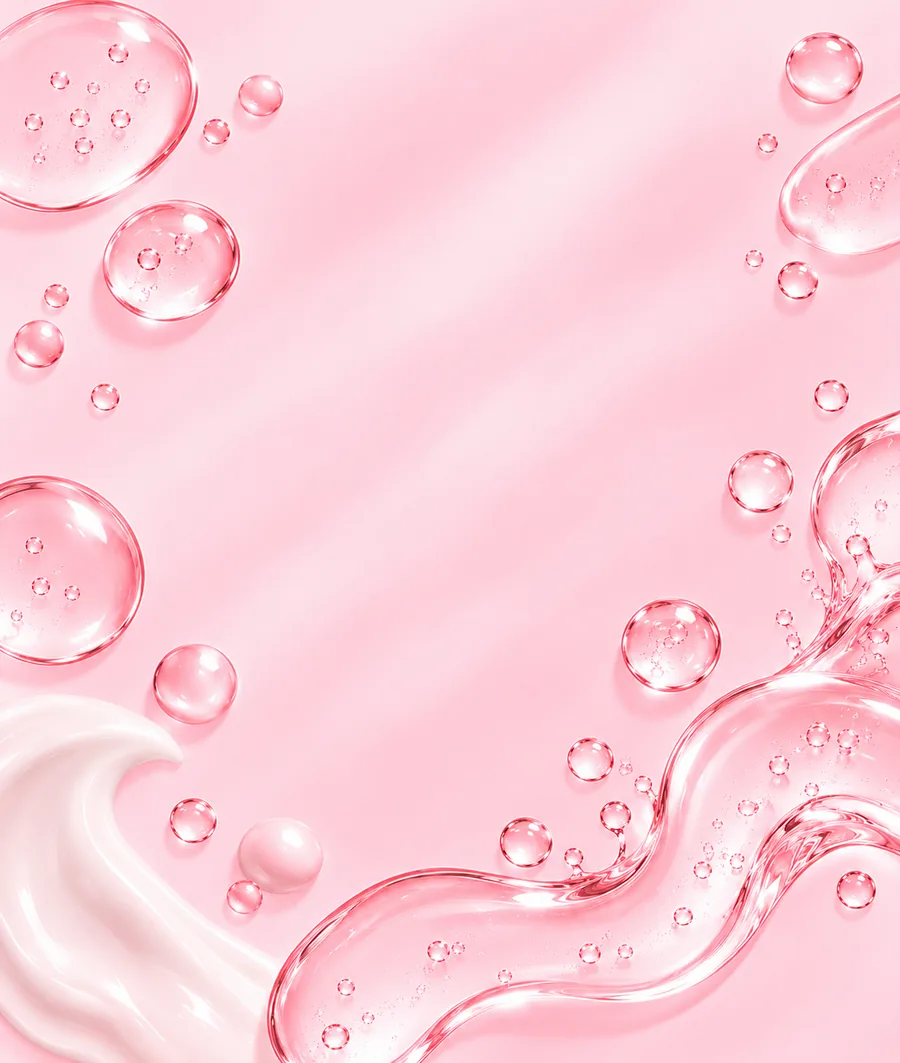
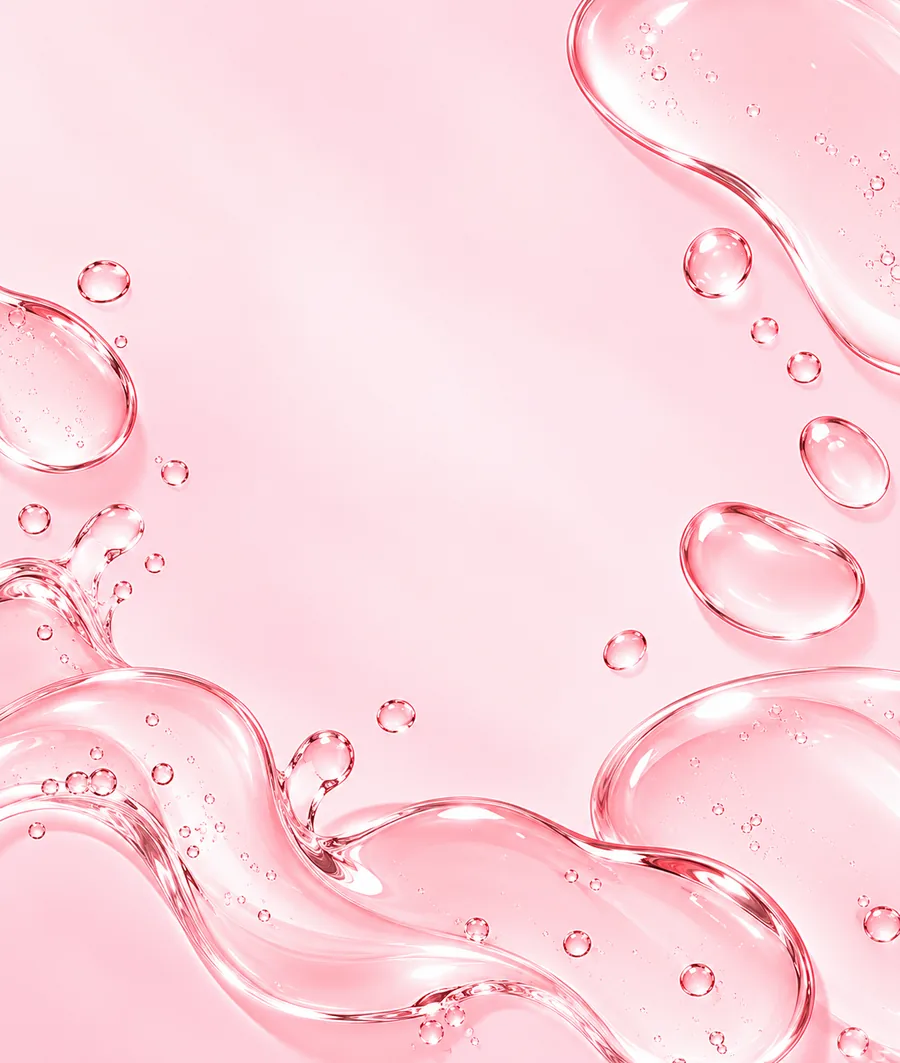
Pages routines : CTA Routine 360 (haut, milieu, bas) + fond peau grasse fourni
Claude-Session: https://claude.ai/code/session_01RQ4GMeZytdPi95et2aZoPf

diff --git a/frontend/src/pages/SkinRoutinePage.jsx b/frontend/src/pages/SkinRoutinePage.jsx
@@ -1,9 +1,10 @@
 import { useEffect, useMemo, useState } from "react";
 import { Link, Navigate, useParams } from "react-router-dom";
-import { ChevronRight, ArrowRight } from "lucide-react";
+import { ChevronRight } from "lucide-react";
 import { api } from "../lib/api";
 import Seo from "../components/Seo";
 import SkinIcon from "../components/SkinIcon";
+import RoutineCta from "../components/RoutineCta";
 import ProductCard from "../components/ProductCard";
 import ArticleCard from "../components/ArticleCard";
 import { SKIN_ROUTINES } from "../data/skinRoutines";
@@ -130,13 +131,7 @@ export default function SkinRoutinePage() {
               {routine.intro.map((p, i) => (
                 <p key={i} className="mt-6 text-neutral-600 leading-relaxed max-w-xl">{p}</p>
               ))}
-              <Link
-                to="/routine-360"
-                className="inline-flex items-center gap-2 mt-8 bg-[#FEC4D2] hover:bg-[#fdb2c3] text-neutral-900 text-sm font-medium px-6 py-3 rounded-full transition"
-                data-testid="skin-cta-routine"
-              >
-                Obtenir ma routine personnalisée <ArrowRight size={16} />
-              </Link>
+              <RoutineCta variant="hero" testId="skin-cta-top" />
             </div>
             <div className="relative flex justify-center lg:justify-end">
               <div className="relative">
@@ -220,6 +215,8 @@ export default function SkinRoutinePage() {
         </div>
       </section>
 
+      <RoutineCta testId="skin-cta-mid" />
+
       {/* ===== ERREURS ===== */}
       <section className="px-6 py-14 md:py-20" data-testid="skin-mistakes">
         <div className="max-w-5xl mx-auto">
@@ -244,6 +241,8 @@ export default function SkinRoutinePage() {
       </section>
 
       <RelatedArticles routine={routine} />
+
+      <RoutineCta testId="skin-cta-bottom" />
 
       {/* ===== AUTRES ROUTINES ===== */}
       <section className="px-6 pb-20" data-testid="skin-other-routines">

diff --git a/frontend/src/components/RoutineCta.jsx b/frontend/src/components/RoutineCta.jsx
@@ -1,0 +1,41 @@
+import { Link } from "react-router-dom";
+import { Sparkles } from "lucide-react";
+
+/**
+ * Appel à l'action vers le quiz « Routine 360 ».
+ * variant="hero" : titre + bouton alignés à gauche (haut de page).
+ * variant="band" : bandeau centré (milieu / bas de page).
+ */
+export default function RoutineCta({ variant = "band", testId = "routine-cta" }) {
+  const title = "Tu veux créer ta propre routine ?";
+  const button = (
+    <Link
+      to="/routine-360"
+      className="inline-flex items-center justify-center gap-2 bg-[#79C1E0] hover:bg-[#6ab1d1] text-white text-base font-semibold px-8 py-4 rounded-full shadow-md hover:shadow-lg transition"
+      data-testid={`${testId}-button`}
+    >
+      <Sparkles size={18} /> Créer ma routine 360
+    </Link>
+  );
+
+  if (variant === "hero") {
+    return (
+      <div className="mt-8" data-testid={testId}>
+        <p className="text-lg font-semibold text-neutral-900 mb-3">{title}</p>
+        {button}
+      </div>
+    );
+  }
+
+  return (
+    <section className="px-6 py-10" data-testid={testId}>
+      <div className="max-w-4xl mx-auto text-center rounded-[2rem] bg-gradient-to-br from-[#FEC4D2]/50 to-[#79C1E0]/25 px-6 py-10 md:py-12">
+        <h2 className="text-2xl md:text-3xl font-bold text-neutral-900">{title}</h2>
+        <p className="mt-3 text-neutral-700 max-w-xl mx-auto leading-relaxed">
+          Réponds à quelques questions : Beautify Vision te propose une routine complète, visage, corps et cheveux, avec des produits adaptés à ta peau.
+        </p>
+        <div className="mt-6">{button}</div>
+      </div>
+    </section>
+  );
+}
